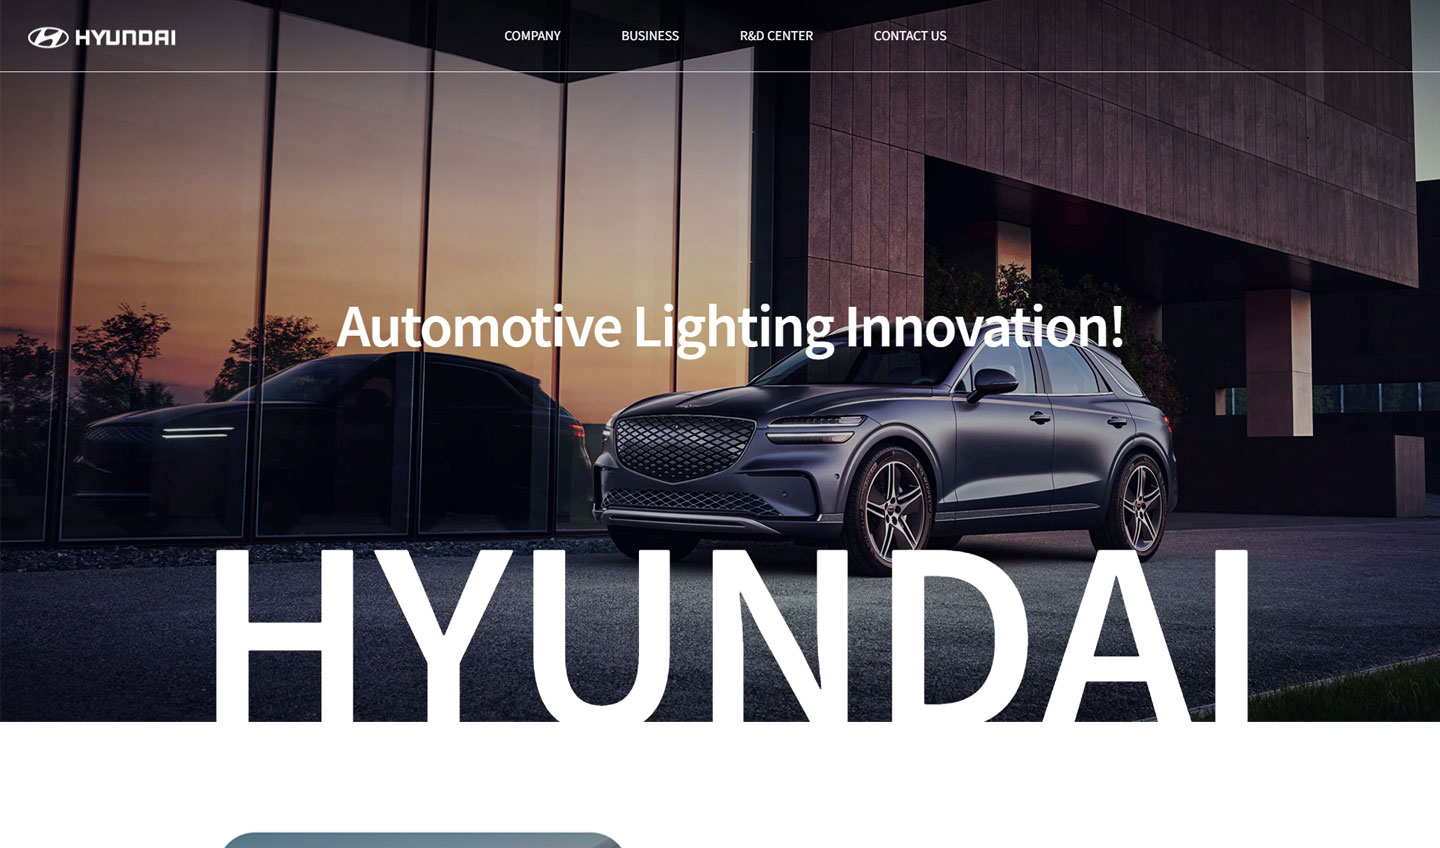
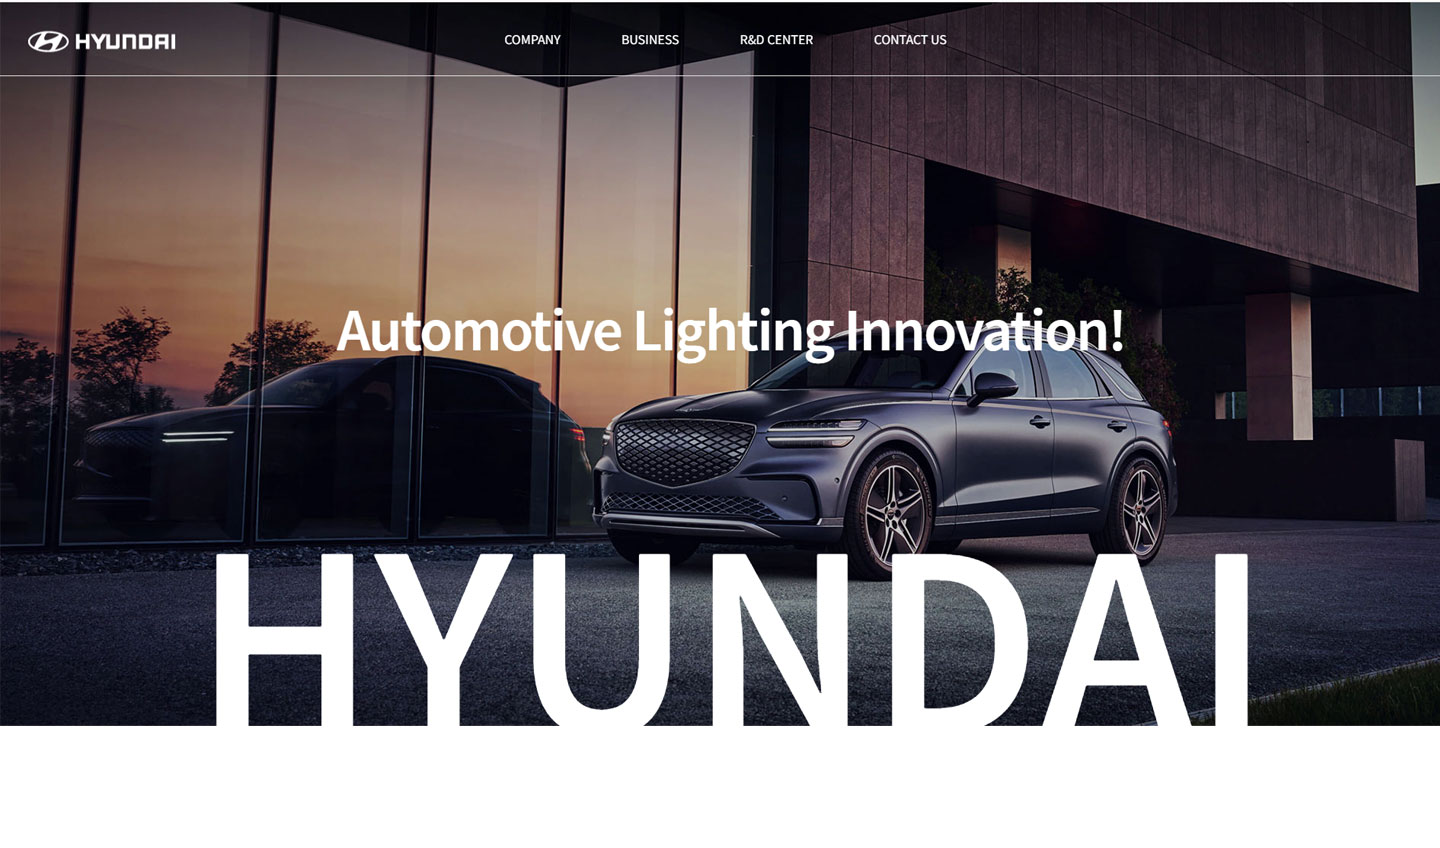
f

diff --git a/src/section/section02.js b/src/section/section02.js
@@ -22,8 +22,8 @@ const Section02 = () => {
         <div className='max-w-full pl-[1.38vw]  pr-[1.38vw] '>
             <div className='relative'>
                 <div className='lg:sticky lg:top-[var(--header-sticky-height)] lg:grid'>
-                    <div className='lg:h-[32.29166666666667vw] overflow-hidden relative'>
-                        <div className='absolute bottom-0 left-0 w-full bg-black h-[0.5px]'></div>
+                    <div className='lg:h-[34.29166666666667vw] overflow-hidden relative'>
+                        <div className='absolute bottom-0 left-0 w-full bg-black h-[1px] z-10'></div>
                         <a href='https://gaefadgdfdfsdf.github.io/portfolio_1_hyundai/' target='_blank' className='absolute inset-0 z-[1]'/>
                         <div className='py-5 lg:py-[1.38vw] flex flex-col-reverse lg:flex-row lg:h-full'>
                             <div className='lg:w-[32.84722222222222vw] lg:pr-[2.7777777777777777vw] mt-[18px] lg:mt-0'>
@@ -46,8 +46,54 @@ const Section02 = () => {
                             </div>
                         </div>
                     </div>
-                    <div className='lg:h-[32.29166666666667vw] overflow-hidden relative'></div>
-                    <div className='lg:h-[32.29166666666667vw] overflow-hidden relative'></div>
+                    <div className='lg:h-[34.29166666666667vw] overflow-hidden relative'>
+                        <div className='absolute bottom-0 left-0 w-full bg-black h-[1px] z-10'></div>
+                        <a href='https://gaefadgdfdfsdf.github.io/portfolio2_glaxywatch/' target='_blank' className='absolute inset-0 z-[1]'/>
+                        <div className='py-5 lg:py-[1.38vw] flex flex-col-reverse lg:flex-row lg:h-full'>
+                            <div className='lg:w-[32.84722222222222vw] lg:pr-[2.7777777777777777vw] mt-[18px] lg:mt-0'>
+                                <h2 className='text-[32px] lg:text-[4.166666666666666vw] leading-[100%] tracking-tighter font-medium'>glaxywatch</h2>
+                                <div className='text-[14px] lg:text-[0.9722222222222222vw] mt-2.5 lg:mt-[1vw] font-medium'>html & css & JavaScript</div>
+                                <div className='text-[16px] description lg_br_enable mt-5 lg:mt-[2vw] lg:tracking-tight leading-[134%]'>
+                                이 포트폴리오 사이트는 HTML, CSS, JavaScript로 제작하였고, Swiper.js를 이용해 슬라이드 기능을 구현했습니다.
+                                GSAP 라이브러리를 활용해 텍스트나 이미지에 자연스러운 애니메이션 효과를 더해 생동감을 주었습니다.
+                                슬라이드가 넘어갈 때마다 요소들이 부드럽게 등장하거나 사라지도록 처리해 사용자 몰입도를 높였습니다.
+                                전체적으로 구조가 깔끔하고, 인터랙션이 잘 적용되어 보기 편한 웹사이트입니다.
+                                </div>
+                            </div>
+                            <div className='lg:w-[calc(100%-32.84722222222222vw)]'>
+                                <div className='wrap-img-distortion overflow-hidden rounded-[.3472222222222222vw] h-[42vw] lg:h-full relative'>
+                                    <img className='object-cover w-full relative h-full lg:top-1/2 lg:-translate-y-1/2' src={process.env.PUBLIC_URL + 'galaxy.jpg'} alt='galaxy'/>
+                                    <div class="absolute top-[50%] w-full left-0 z-1 translate-y-[-50%]">
+                                        <canvas className='w-full h-full object-cover' id="hover-effect-canvas-1745038706574" width="1236" height="618"></canvas>
+                                    </div>
+				                </div>
+                            </div>
+                        </div>
+                    </div>
+                    <div className='lg:h-[34.29166666666667vw] overflow-hidden relative'>
+                    <div className='absolute bottom-0 left-0 w-full bg-black h-[1px] z-10'></div>
+                        <a href='https://gaefadgdfdfsdf.github.io/portfolio2_glaxywatch/' target='_blank' className='absolute inset-0 z-[1]'/>
+                        <div className='py-5 lg:py-[1.38vw] flex flex-col-reverse lg:flex-row lg:h-full'>
+                            <div className='lg:w-[32.84722222222222vw] lg:pr-[2.7777777777777777vw] mt-[18px] lg:mt-0'>
+                                <h2 className='text-[32px] lg:text-[4.166666666666666vw] leading-[100%] tracking-tighter font-medium'>herryporter</h2>
+                                <div className='text-[14px] lg:text-[0.9722222222222222vw] mt-2.5 lg:mt-[1vw] font-medium'>html & css & JavaScript</div>
+                                <div className='text-[16px] description lg_br_enable mt-5 lg:mt-[2vw] lg:tracking-tight leading-[134%]'>
+                                이 포트폴리오 사이트는 HTML, CSS, JavaScript로 제작하였고, Swiper.js를 이용해 슬라이드 기능을 구현했습니다.
+                                GSAP 라이브러리를 활용해 텍스트나 이미지에 자연스러운 애니메이션 효과를 더해 생동감을 주었습니다.
+                                슬라이드가 넘어갈 때마다 요소들이 부드럽게 등장하거나 사라지도록 처리해 사용자 몰입도를 높였습니다.
+                                전체적으로 구조가 깔끔하고, 인터랙션이 잘 적용되어 보기 편한 웹사이트입니다.
+                                </div>
+                            </div>
+                            <div className='lg:w-[calc(100%-32.84722222222222vw)]'>
+                                <div className='wrap-img-distortion overflow-hidden rounded-[.3472222222222222vw] h-[42vw] lg:h-full relative'>
+                                    <img className='object-cover w-full relative h-full lg:top-1/2 lg:-translate-y-1/2' src={process.env.PUBLIC_URL + 'herryporter-1.jpg'} alt='herryporter'/>
+                                    <div class="absolute top-[50%] w-full left-0 z-1 translate-y-[-50%]">
+                                        <canvas className='w-full h-full object-cover' id="hover-effect-canvas-1745038706574" width="1236" height="618"></canvas>
+                                    </div>
+				                </div>
+                            </div>
+                        </div>
+                    </div>
                     <div></div>
                 </div>
             </div>
